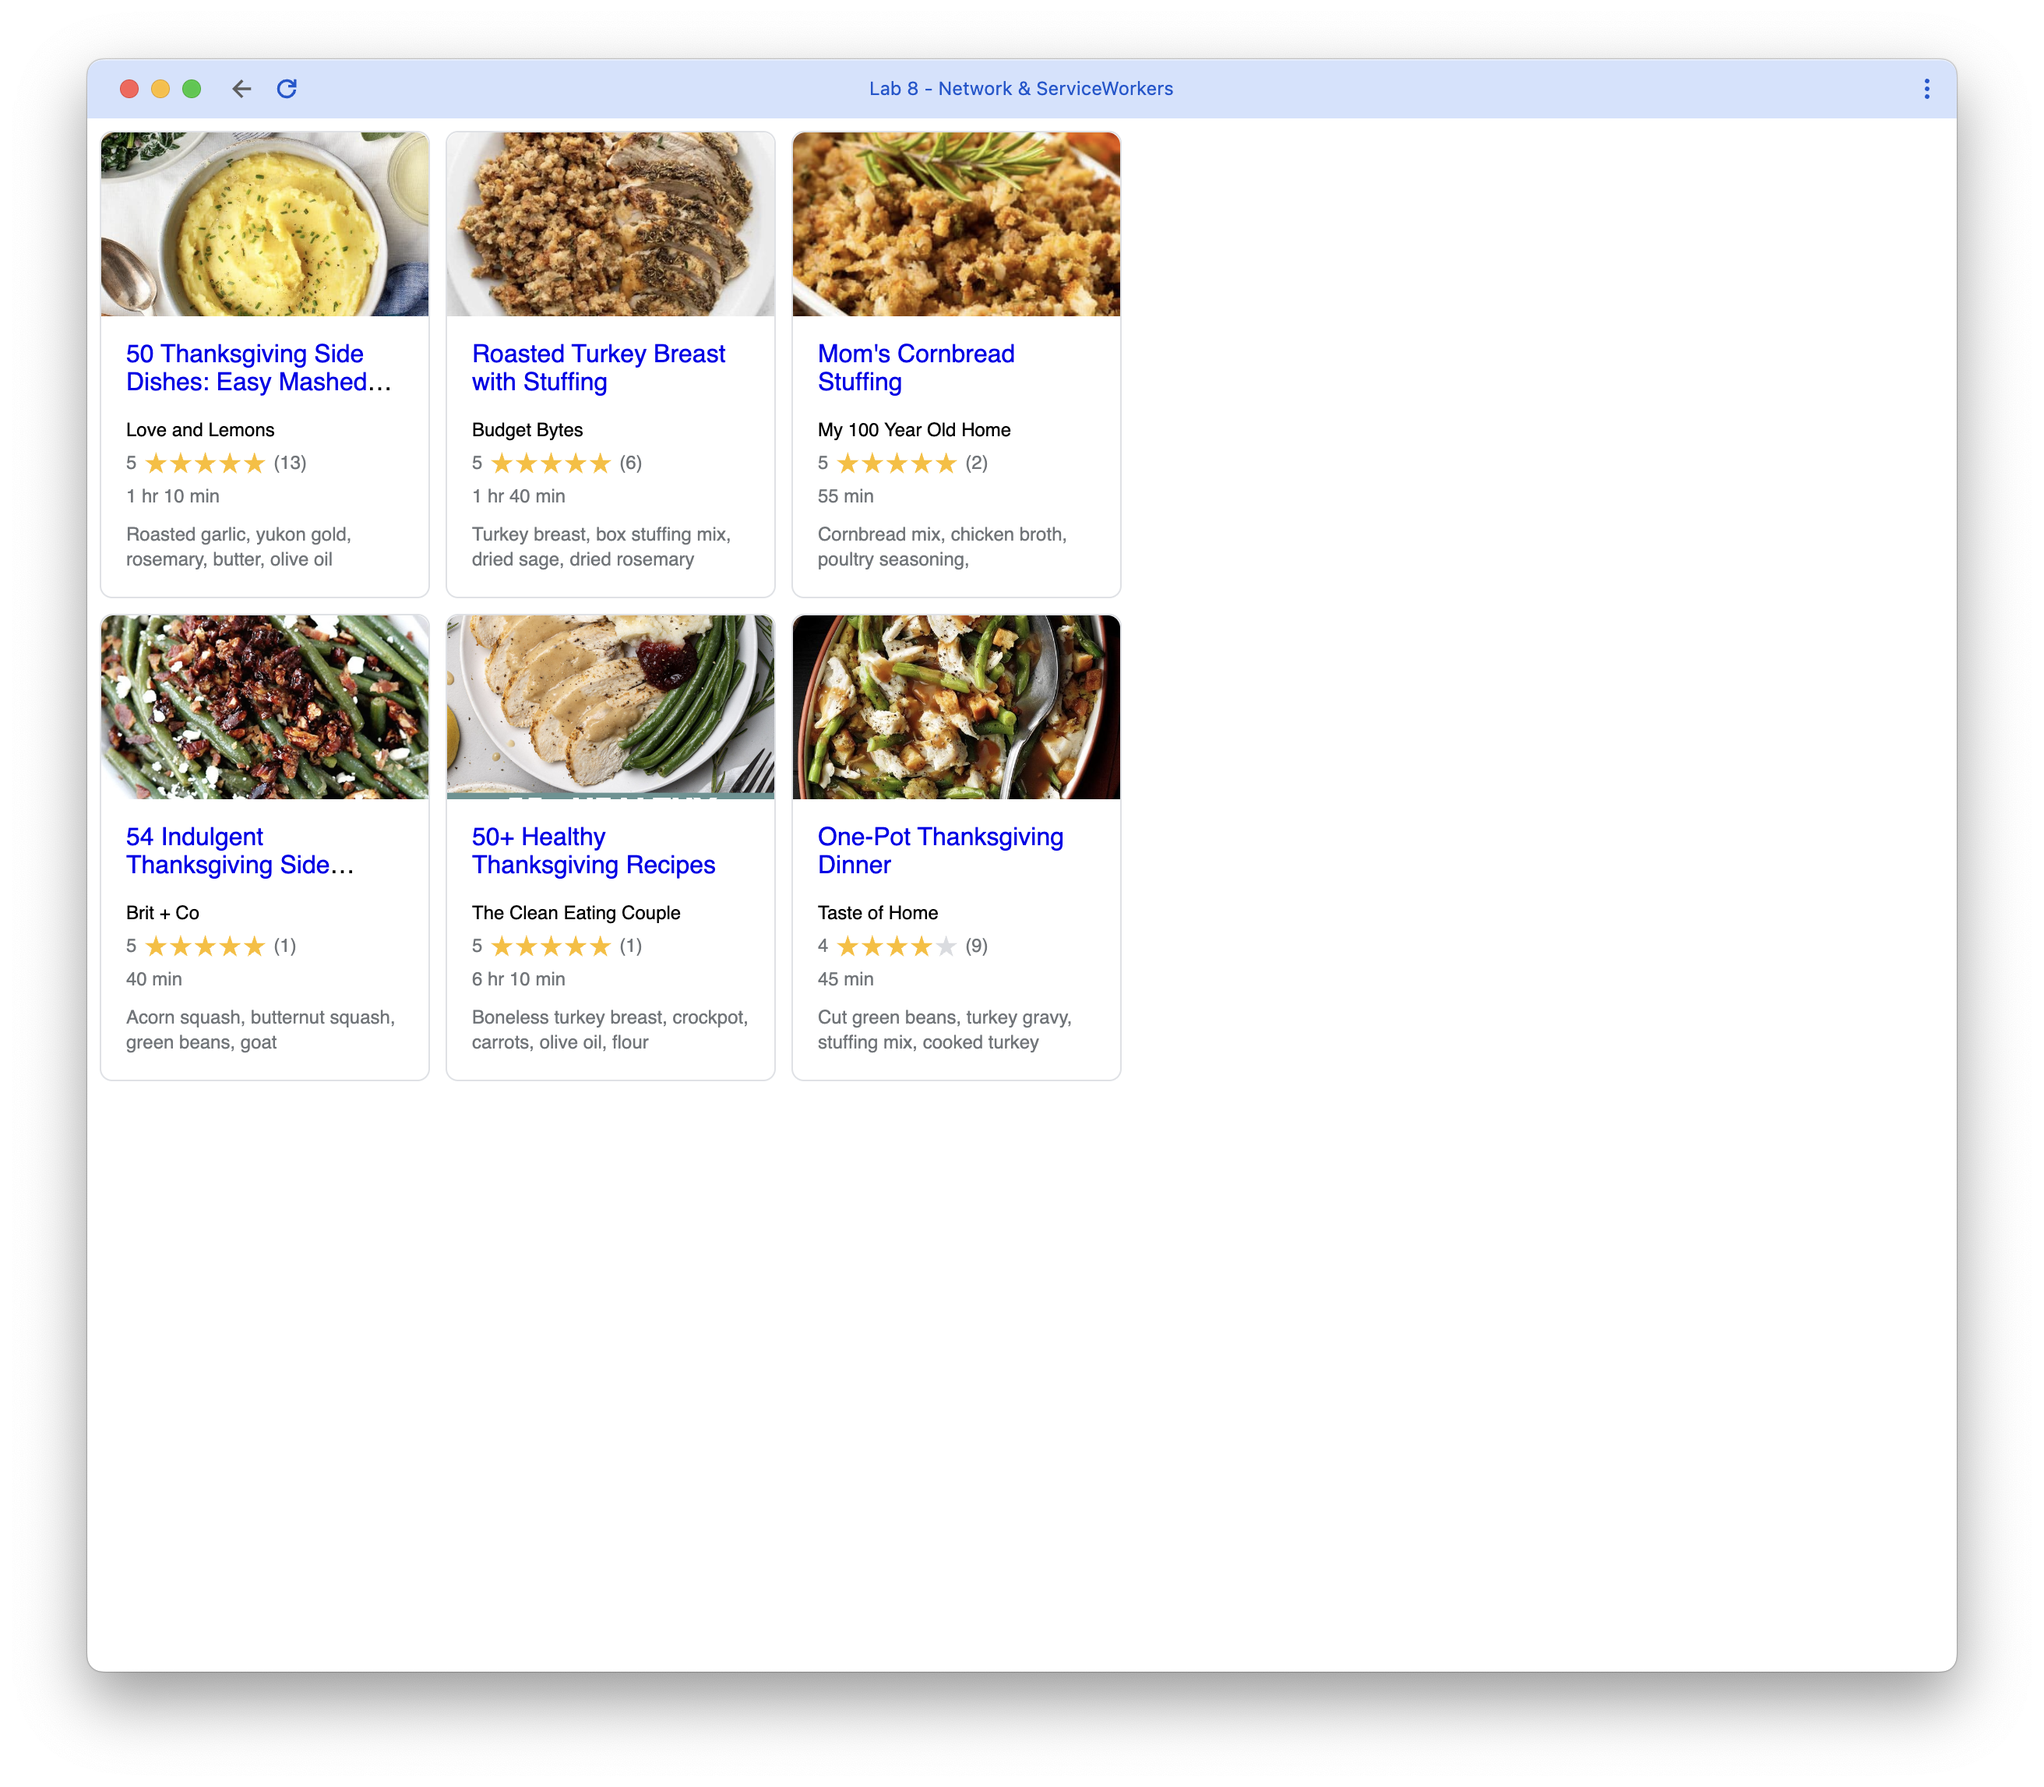
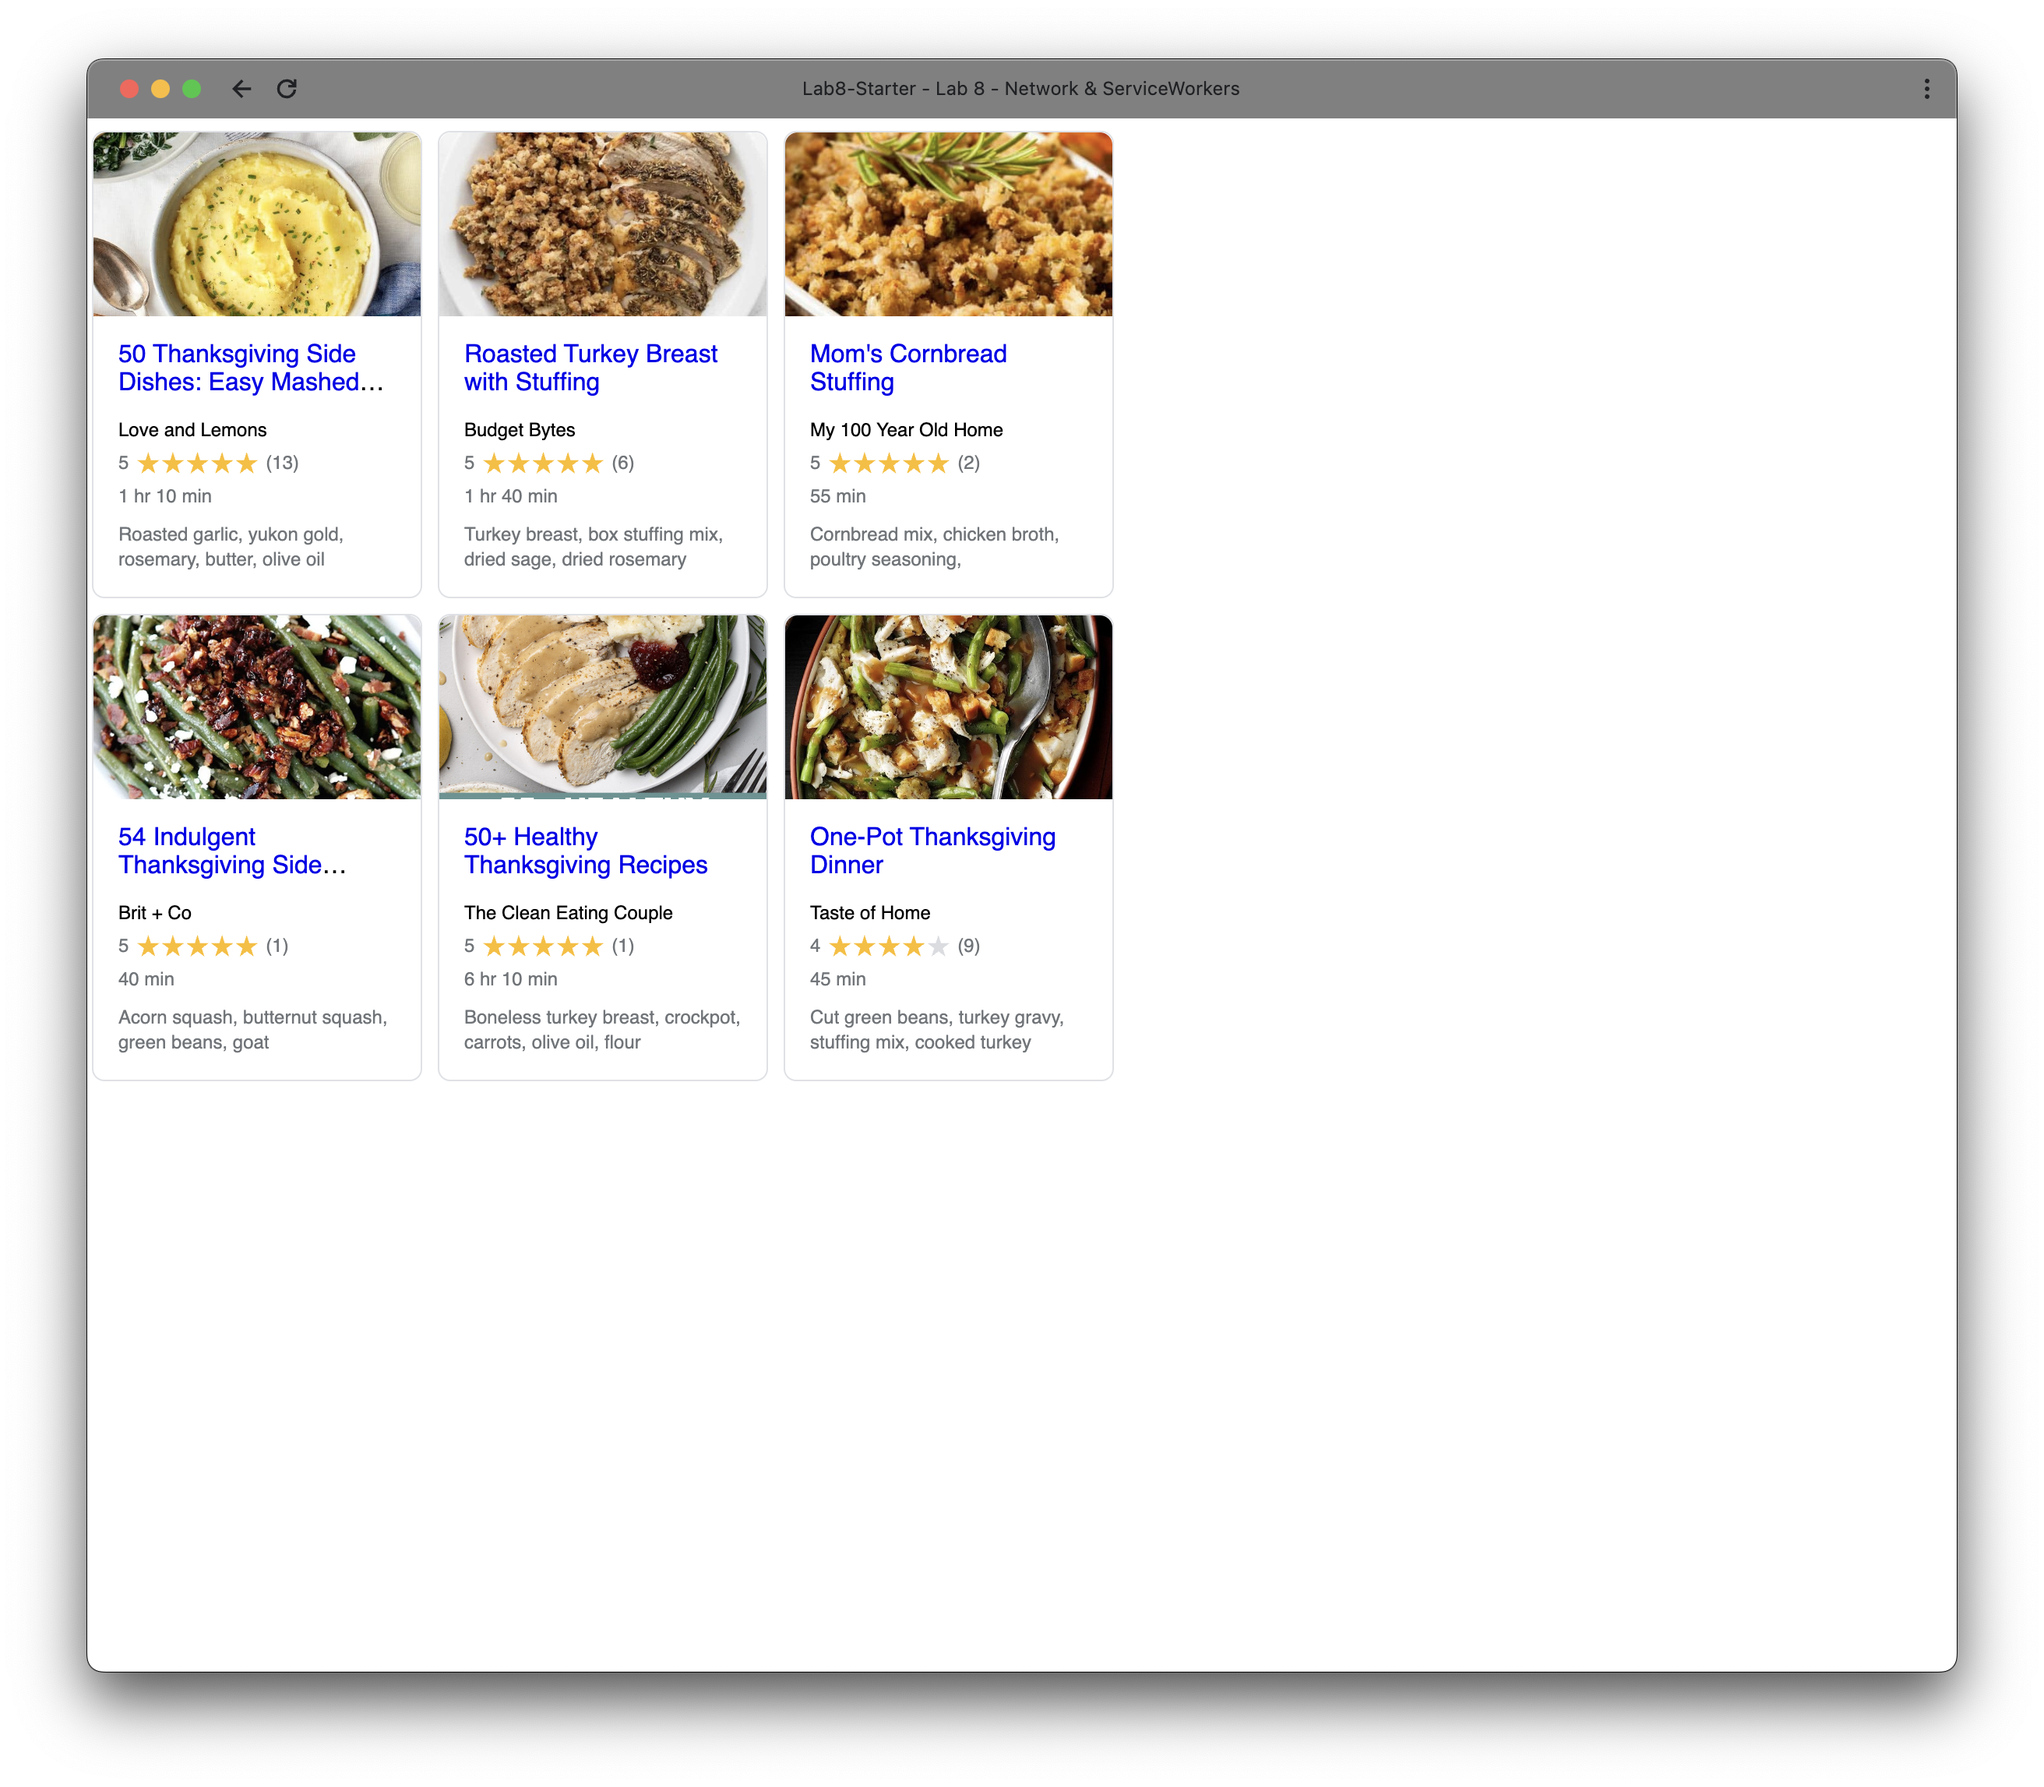
chore: Update README.md with PWA screenshot

Changed region(s): [[0.0312, 0.031, 0.9688, 0.9595]]

diff --git a/README.md b/README.md
@@ -5,4 +5,4 @@
 
 Service workers allow for graceful degradation in order to cater towards the lower levels of computation and accesibility in terms of webbrowsing. With service workers you allow fior your website to work with some limtied functionaity when in an ofline setting. This ties to graceful egradation as it allows users with poor connection the same graceful use of the webiste as users with higher speeds.
 
-<img width="1312" alt="Screenshot 2024-05-26 at 6 04 16 PM" src="https://github.com/peds24/Lab8-Starter/assets/103155821/c8f621c8-6f92-4b66-83ec-d40790a31070">
+![PWA Screen Shot](pwa.png)
